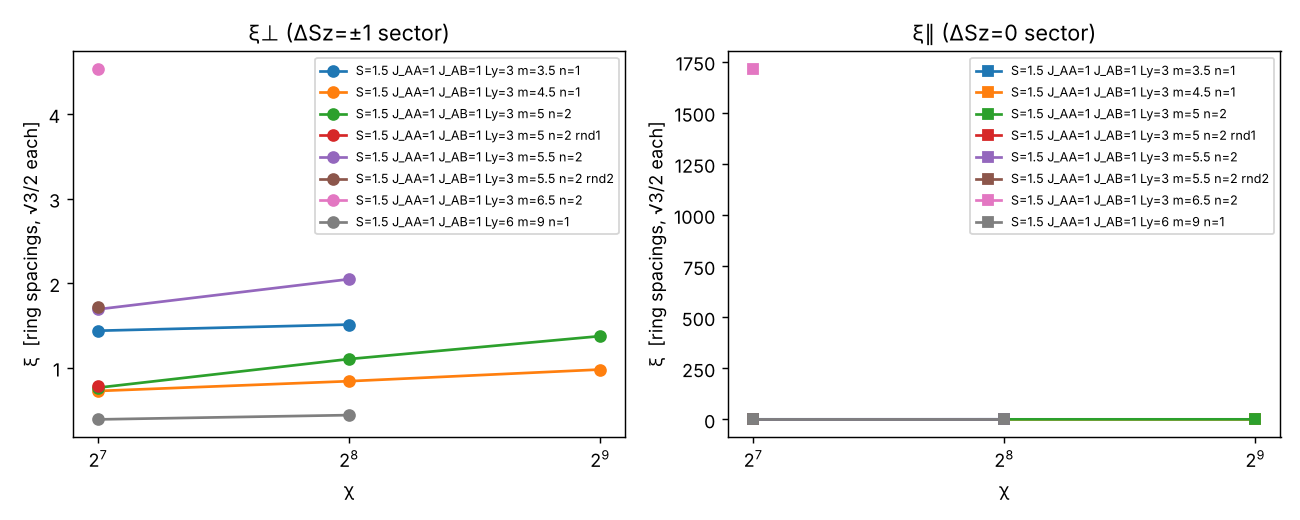
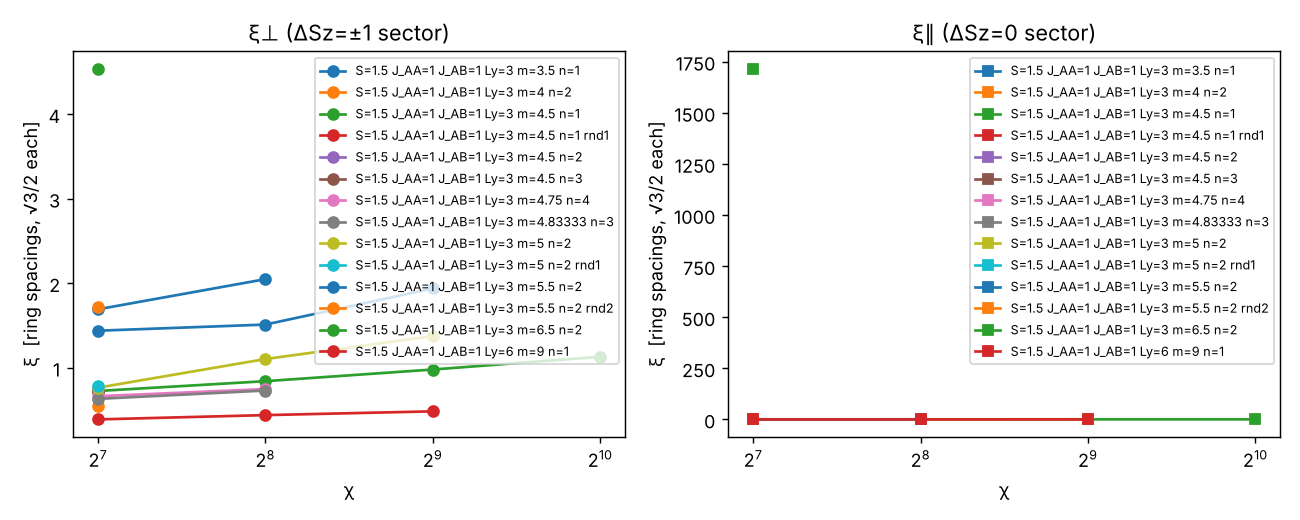
analysis: J scan figure from 2-ring-cell plateau gap
Claude-Session: https://claude.ai/code/session_01ER87ahehirUHtzvqfEMg5E

diff --git a/triakis/analyze.py b/triakis/analyze.py
@@ -121,35 +121,44 @@ def pick(rows, **kw):
 
 
 def fig_scan(rows):
-    """J_AA/J_AB scan on Ly=3: e(4.5)-e(3.5) per ring at chi=128 and 256."""
-    fig, axs = plt.subplots(1, 2, figsize=(10, 4))
+    """J_AA/J_AB scan on Ly=3 with 2-ring cells: e(m) per J and the plateau gap e(5)-e(4.5)."""
+    base = [r for r in rows if r['S'] == 1.5 and r['J2'] == 1 and r['Ly'] == 3 and r['centers']
+            and r['seed'] < 0]
+
+    def e(J, m, chi):
+        c = [r for r in base if r['J1'] == J and r['m'] == m and r['chi'] == chi and r['nring'] == 2]
+        if not c and m == 4.5:   # at J=1 the 1-, 2- and 3-ring cells agree; allow the 1-ring value
+            c = [r for r in base if r['J1'] == J and r['m'] == m and r['chi'] == chi]
+        return c[0] if c else None
+    J1s = sorted({r['J1'] for r in base})
+    fig, axs = plt.subplots(1, 3, figsize=(15, 4.2))
     out = []
-    J1s = sorted({r['J1'] for r in rows if r['S'] == 1.5 and r['J2'] == 1 and r['Ly'] == 3 and r['centers']})
-    for chi, mk in ((128, 'o--'), (256, 's-')):
+    for J in J1s:
+        ms = sorted({r['m'] for r in base if r['J1'] == J and r['nring'] == 2 and r['chi'] == 128} | {4.5})
+        pts = [(m, e(J, m, 128)) for m in ms]
+        pts = [(m, r) for m, r in pts if r is not None and m in (4.0, 4.5, 5.0, 5.5, 6.0, 6.5)]
+        if len(pts) >= 2:
+            e0 = min(r['e_ring'] for _, r in pts)
+            axs[0].plot([m for m, _ in pts], [r['e_ring'] - e0 for _, r in pts], 'o-', label=f'J_AA={J:g}')
+    for chi, mk in ((128, 'o-'), (256, 's--')):
         xs, ds, xi = [], [], []
         for J in J1s:
-            a = [r for r in rows if r['S'] == 1.5 and r['J2'] == 1 and r['J1'] == J and r['Ly'] == 3
-                 and r['centers'] and r['seed'] < 0 and r['chi'] == chi and r['m'] == 4.5 and r['nring'] == 1]
-            b = [r for r in rows if r['S'] == 1.5 and r['J2'] == 1 and r['J1'] == J and r['Ly'] == 3
-                 and r['centers'] and r['seed'] < 0 and r['chi'] == chi and r['m'] == 3.5 and r['nring'] == 1]
+            a, b = e(J, 4.5, chi), e(J, 5.0, chi)
             if a and b:
-                xs.append(J); ds.append(a[0]['e_ring'] - b[0]['e_ring']); xi.append(a[0]['xi_tm2'])
-                out.append(dict(J_AA=J, chi=chi, e45=a[0]['e_ring'], e35=b[0]['e_ring'],
-                                diff=a[0]['e_ring'] - b[0]['e_ring'], xi_perp_45=a[0]['xi_tm2'],
-                                xi_perp_35=b[0]['xi_tm2']))
-        axs[0].plot(xs, ds, mk, label=f'χ={chi}')
-        axs[1].plot(xs, xi, mk, label=f'χ={chi}')
-    axs[0].axhline(0, color='k', lw=0.8)
-    axs[0].axvline(1, color='gray', ls=':', lw=1)
-    axs[0].set_xlabel('J_AA / J_AB')
-    axs[0].set_ylabel('e_ring(m=4.5) − e_ring(m=3.5)')
-    axs[0].set_title('< 0: m=S/3 ferrimagnet favoured;  > 0: collapsed')
-    axs[1].set_xlabel('J_AA / J_AB')
-    axs[1].set_ylabel('ξ⊥ at m=4.5 [ring spacings]')
-    axs[1].set_yscale('log')
+                xs.append(J); ds.append(b['e_ring'] - a['e_ring']); xi.append(a['xi_tm2'])
+                out.append(dict(J_AA=J, chi=chi, e45=a['e_ring'], e5=b['e_ring'], gap=b['e_ring'] - a['e_ring'],
+                                xi_perp_45=a['xi_tm2'], cell45=a['nring']))
+        axs[1].plot(xs, ds, mk, label=f'χ={chi}')
+        axs[2].plot(xs, xi, mk, label=f'χ={chi}')
+    axs[0].set_xlabel('m (Sz per ring)'); axs[0].set_ylabel('e_ring − min  (χ=128, 2-ring cells)')
+    axs[0].set_title('e(m) for each J_AA/J_AB')
+    axs[1].axhline(0, color='k', lw=0.8)
+    axs[1].set_xlabel('J_AA / J_AB'); axs[1].set_ylabel('Δ₊ = e_ring(5) − e_ring(4.5)')
+    axs[1].set_title('plateau gap (> 0: m = S/3 ferrimagnet)')
+    axs[2].set_xlabel('J_AA / J_AB'); axs[2].set_ylabel('ξ⊥ at m=4.5 [ring spacings]'); axs[2].set_yscale('log')
     for ax in axs:
-        ax.legend(fontsize=8)
-    fig.suptitle('S=3/2, Ly=3 infinite cylinder')
+        ax.legend(fontsize=7)
+    fig.suptitle('S=3/2, Ly=3 infinite cylinder: J_AA/J_AB scan')
     fig.tight_layout()
     fig.savefig(os.path.join(ROOT, 'figs', 'jscan.png'), dpi=130)
     plt.close(fig)

diff --git a/results/table.md b/results/table.md
@@ -5,14 +5,30 @@
 | 0.5 | 1 | 1 | 3 | 1.5 | 1 | cl | 512 | -1.494715 | 1.5e-07 | -0.225, -0.225, -0.225 | 0.362, 0.362 | 0.700 | 0.440 | 0.322 | 1.319 |
 | 1 | 1 | 1 | 3 | 3.5 | 2 | cl | 128 | -4.661363 | 5.8e-04 | -0.582, -0.416, -0.594 | 0.849, 0.849 | 1.203 | 0.655 | 0.360 | 1.990 |
 | 1 | 1 | 1 | 3 | 3.5 | 2 | cl | 256 | -4.674228 | 2.1e-04 | -0.572, -0.424, -0.572 | 0.845, 0.845 | 1.518 | 0.884 | 0.411 | 2.071 |
+| 1.5 | 0.8 | 1 | 3 | 3.5 | 1 | cl | 128 | -10.301692 | 1.8e-03 | -0.886, -0.833, -0.839 | 1.009, 1.011 | 2.754 | 0.671 | 0.611 | 2.365 |
+| 1.5 | 0.8 | 1 | 3 | 3.5 | 1 | cl | 256 | -10.359139 | 9.8e-04 | -0.843, -0.823, -0.824 | 0.998, 0.999 | 3.754 | 0.735 | 0.863 | 2.574 |
+| 1.5 | 0.8 | 1 | 3 | 4.5 | 1 | cl | 128 | -10.382840 | 6.3e-04 | -1.072, -1.057, -1.056 | 1.280, 1.281 | 0.663 | 0.376 | 0.308 | 1.754 |
+| 1.5 | 0.8 | 1 | 3 | 4.5 | 1 | cl | 256 | -10.401818 | 2.2e-04 | -1.049, -1.043, -1.043 | 1.272, 1.273 | 0.736 | 0.399 | 0.344 | 1.835 |
+| 1.5 | 0.8 | 1 | 3 | 5 | 2 | cl | 128 | -10.161271 | 6.1e-04 | -0.876, -1.057, -1.095 | 1.338, 1.339 | 1.125 | 0.497 | 0.351 | 1.872 |
+| 1.5 | 0.8 | 1 | 3 | 5 | 2 | cl | 256 | -10.182096 | 2.6e-04 | -0.880, -1.056, -1.062 | 1.333, 1.333 | 1.455 | 0.778 | 0.406 | 2.044 |
 | 1.5 (corners only) | 1 | 0 | 3 | 0 | 2 | cl | 128 | -3.912918 | 4.3e-04 | -0.000, 0.000, -0.000 | —, — | 16.649 | 8060.222 | 4.066 | 2.706 |
 | 1.5 (corners only) | 1 | 0 | 3 | 0 | 2 | cl | 256 | -3.923378 | 1.6e-04 | -0.000, 0.000, -0.000 | —, — | 24.195 | 98806.312 | 5.822 | 2.916 |
 | 1.5 (corners only) | 1 | 0 | 3 | 0 | 2 | cl | 512 | -3.927648 | 6.1e-05 | 0.000, -0.000, -0.000 | —, — | 36.037 | 2344078.905 | 8.598 | 3.124 |
 | 1.5 | 1 | 1 | 3 | 3.5 | 1 | cl | 128 | -9.600558 | 3.3e-03 | -1.070, -0.515, -0.488 | 0.929, 0.929 | 1.438 | 0.655 | 0.417 | 2.580 |
 | 1.5 | 1 | 1 | 3 | 3.5 | 1 | cl | 256 | -9.695037 | 2.1e-03 | -0.819, -0.615, -0.613 | 0.924, 0.925 | 1.511 | 0.748 | 0.472 | 2.844 |
+| 1.5 | 1 | 1 | 3 | 3.5 | 1 | cl | 512 | -9.755562 | 1.2e-03 | -0.704, -0.640, -0.641 | 0.914, 0.914 | 1.938 | 0.847 | 0.517 | 3.072 |
+| 1.5 | 1 | 1 | 3 | 4 | 2 | cl | 128 | -9.646823 | 3.4e-03 | -0.804, -0.713, -0.795 | 1.050, 1.054 | 0.547 | 0.491 | 0.396 | 1.776 |
 | 1.5 | 1 | 1 | 3 | 4.5 | 1 | cl | 128 | -9.716246 | 2.1e-03 | -0.925, -0.857, -0.861 | 1.190, 1.191 | 0.725 | 0.409 | 0.338 | 2.224 |
 | 1.5 | 1 | 1 | 3 | 4.5 | 1 | cl | 256 | -9.771500 | 9.8e-04 | -0.874, -0.838, -0.842 | 1.175, 1.176 | 0.841 | 0.442 | 0.399 | 2.403 |
 | 1.5 | 1 | 1 | 3 | 4.5 | 1 | cl | 512 | -9.799931 | 3.9e-04 | -0.842, -0.826, -0.826 | 1.166, 1.166 | 0.979 | 0.547 | 0.465 | 2.528 |
+| 1.5 | 1 | 1 | 3 | 4.5 | 1 | cl | 1024 | -9.812060 | 1.4e-04 | -0.823, -0.818, -0.818 | 1.160, 1.160 | 1.130 | 0.645 | 0.534 | 2.612 |
+| 1.5 | 1 | 1 | 3 | 4.5 | 1 | rnd1 | 128 | -9.716223 | 2.1e-03 | -0.925, -0.857, -0.862 | 1.190, 1.191 | 0.726 | 0.411 | 0.339 | 2.225 |
+| 1.5 | 1 | 1 | 3 | 4.5 | 2 | cl | 128 | -9.716255 | 2.1e-03 | -0.892, -0.859, -0.894 | 1.190, 1.191 | 0.725 | 0.410 | 0.338 | 2.223 |
+| 1.5 | 1 | 1 | 3 | 4.5 | 3 | cl | 128 | -9.716290 | 2.1e-03 | -0.880, -0.885, -0.881 | 1.190, 1.192 | 0.725 | 0.410 | 0.338 | 2.224 |
+| 1.5 | 1 | 1 | 3 | 4.75 | 4 | cl | 128 | -9.689976 | 2.0e-03 | -0.857, -0.897, -0.903 | 1.234, 1.235 | 0.663 | 0.425 | 0.309 | 2.243 |
+| 1.5 | 1 | 1 | 3 | 4.75 | 4 | cl | 256 | -9.740492 | 9.1e-04 | -0.842, -0.876, -0.866 | 1.222, 1.223 | 0.747 | 0.525 | 0.353 | 2.468 |
+| 1.5 | 1 | 1 | 3 | 4.83333 | 3 | cl | 128 | -9.680057 | 1.7e-03 | -0.830, -0.890, -0.946 | 1.249, 1.251 | 0.632 | 0.434 | 0.307 | 2.256 |
+| 1.5 | 1 | 1 | 3 | 4.83333 | 3 | cl | 256 | -9.729763 | 8.9e-04 | -0.816, -0.874, -0.904 | 1.237, 1.238 | 0.731 | 0.549 | 0.385 | 2.478 |
 | 1.5 | 1 | 1 | 3 | 5 | 2 | cl | 128 | -9.661925 | 1.6e-03 | -0.868, -0.814, -0.970 | 1.275, 1.276 | 0.764 | 0.395 | 0.320 | 2.246 |
 | 1.5 | 1 | 1 | 3 | 5 | 2 | cl | 256 | -9.708524 | 8.6e-04 | -0.918, -0.750, -0.926 | 1.265, 1.266 | 1.103 | 0.579 | 0.417 | 2.459 |
 | 1.5 | 1 | 1 | 3 | 5 | 2 | cl | 512 | -9.731981 | 3.6e-04 | -0.897, -0.755, -0.898 | 1.258, 1.259 | 1.374 | 0.668 | 0.487 | 2.571 |
@@ -23,15 +39,56 @@
 | 1.5 | 1 | 1 | 3 | 6.5 | 2 | cl | 128 | -8.993248 | 8.4e-04 | -0.702, -0.701, -0.700 | 1.433, 1.434 | 4.536 | 1715.218 | 1.107 | 2.485 |
 | 1.5 | 1 | 1 | 6 | 9 | 1 | cl | 128 | -9.309524 | 2.4e-03 | -1.083, -0.967, -0.961 | 1.252, 1.252 | 0.389 | 0.238 | 0.224 | 2.560 |
 | 1.5 | 1 | 1 | 6 | 9 | 1 | cl | 256 | -9.436565 | 1.8e-03 | -1.041, -0.940, -0.937 | 1.236, 1.236 | 0.440 | 0.267 | 0.239 | 3.025 |
+| 1.5 | 1 | 1 | 6 | 9 | 1 | cl | 512 | -9.534675 | 1.3e-03 | -1.009, -0.911, -0.912 | 1.222, 1.222 | 0.484 | 0.293 | 0.249 | 3.450 |
 | 1.5 | 1 | 2 | 3 | 4.5 | 1 | cl | 128 | -23.614541 | 5.9e-05 | -1.243, -1.241, -1.241 | 1.371, 1.371 | 0.467 | 0.355 | 0.213 | 1.164 |
 | 1.5 | 1 | 2 | 3 | 4.5 | 1 | cl | 256 | -23.619237 | 1.1e-05 | -1.239, -1.239, -1.239 | 1.370, 1.370 | 0.527 | 0.316 | 0.246 | 1.175 |
+| 1.5 | 1.05 | 1 | 3 | 4.5 | 2 | cl | 128 | -9.592441 | 2.6e-03 | -0.855, -0.803, -0.843 | 1.167, 1.167 | 0.720 | 0.430 | 0.336 | 2.299 |
+| 1.5 | 1.05 | 1 | 3 | 5 | 2 | cl | 128 | -9.565973 | 2.1e-03 | -0.803, -0.799, -0.933 | 1.256, 1.255 | 0.646 | 0.424 | 0.310 | 2.294 |
+| 1.5 | 1.1 | 1 | 3 | 4 | 2 | cl | 128 | -9.469690 | 3.0e-03 | -0.655, -0.596, -0.621 | 0.975, 0.982 | 0.547 | 0.350 | 0.304 | 1.509 |
+| 1.5 | 1.1 | 1 | 3 | 4.5 | 2 | cl | 128 | -9.485674 | 3.1e-03 | -0.835, -0.730, -0.795 | 1.143, 1.143 | 0.710 | 0.457 | 0.330 | 2.339 |
+| 1.5 | 1.1 | 1 | 3 | 5 | 2 | cl | 128 | -9.484991 | 2.2e-03 | -0.708, -0.859, -0.825 | 1.235, 1.229 | 0.548 | 0.459 | 0.314 | 2.257 |
+| 1.5 | 1.1 | 1 | 3 | 5.5 | 2 | cl | 128 | -9.473485 | 1.7e-03 | -0.887, -0.614, -0.878 | 1.312, 1.314 | 1.777 | 0.553 | 0.513 | 2.137 |
+| 1.5 | 1.1 | 1 | 3 | 6 | 2 | cl | 128 | -9.336246 | 9.2e-04 | -1.020, -0.549, -0.651 | 1.369, 1.371 | 3.232 | 0.836 | 0.847 | 2.035 |
 | 1.5 | 1.2 | 1 | 3 | 3.5 | 1 | cl | 128 | -9.214823 | 3.2e-03 | 0.231, -0.981, -0.785 | 0.824, 0.855 | 2.362 | 0.680 | 0.541 | 2.619 |
 | 1.5 | 1.2 | 1 | 3 | 3.5 | 1 | cl | 256 | -9.331422 | 2.5e-03 | 0.152, -0.811, -0.857 | 0.837, 0.835 | 2.456 | 0.766 | 0.443 | 2.929 |
+| 1.5 | 1.2 | 1 | 3 | 4 | 2 | cl | 128 | -9.367384 | 1.6e-03 | -1.182, 0.106, -0.514 | 0.933, 0.930 | 2.524 | 0.544 | 0.703 | 2.137 |
 | 1.5 | 1.2 | 1 | 3 | 4.5 | 1 | cl | 128 | -9.324477 | 3.6e-03 | -0.842, -0.610, -0.621 | 1.098, 1.094 | 0.648 | 0.496 | 0.321 | 2.551 |
 | 1.5 | 1.2 | 1 | 3 | 4.5 | 1 | cl | 256 | -9.425754 | 2.1e-03 | -0.765, -0.622, -0.624 | 1.086, 1.085 | 0.792 | 0.522 | 0.378 | 2.824 |
+| 1.5 | 1.2 | 1 | 3 | 4.5 | 2 | cl | 128 | -9.377353 | 1.7e-03 | -1.117, -0.108, -0.590 | 1.056, 1.050 | 2.023 | 0.553 | 0.635 | 2.114 |
+| 1.5 | 1.2 | 1 | 3 | 5 | 2 | cl | 128 | -9.390097 | 1.7e-03 | -0.429, -0.949, -0.664 | 1.178, 1.169 | 1.835 | 0.576 | 0.585 | 2.299 |
+| 1.5 | 1.2 | 1 | 3 | 5.5 | 2 | cl | 128 | -9.406846 | 1.9e-03 | -0.843, -0.614, -0.756 | 1.284, 1.286 | 2.101 | 0.553 | 0.598 | 2.240 |
+| 1.5 | 1.2 | 1 | 3 | 6 | 2 | cl | 128 | -9.343677 | 1.1e-03 | -0.889, -0.475, -0.745 | 1.350, 1.353 | 3.949 | 0.838 | 1.001 | 2.113 |
+| 1.5 | 1.2 | 1 | 3 | 6.5 | 2 | cl | 128 | -9.153397 | 1.0e-03 | -0.685, -0.682, -0.684 | 1.424, 1.426 | 4.535 | 1013.947 | 1.112 | 2.544 |
+| 1.5 | 1.3 | 1 | 3 | 3.5 | 1 | cl | 128 | -9.178310 | 3.6e-03 | 0.160, -1.033, -0.403 | 0.762, 0.830 | 1.593 | 1.078 | 0.889 | 2.678 |
+| 1.5 | 1.3 | 1 | 3 | 3.5 | 1 | cl | 256 | -9.294449 | 2.5e-03 | 0.061, -1.007, -0.318 | 0.773, 0.815 | 1.745 | 1.145 | 0.998 | 2.960 |
+| 1.5 | 1.3 | 1 | 3 | 4 | 2 | cl | 128 | -9.383871 | 1.2e-03 | -1.167, 0.234, -0.444 | 0.898, 0.894 | 3.704 | 0.600 | 0.966 | 2.163 |
+| 1.5 | 1.3 | 1 | 3 | 4.5 | 1 | cl | 128 | -9.336240 | 1.3e-03 | -0.547, -0.555, -0.491 | 1.026, 1.005 | 4.726 | 0.702 | 1.195 | 2.359 |
+| 1.5 | 1.3 | 1 | 3 | 4.5 | 1 | cl | 256 | -9.401672 | 9.1e-04 | -0.546, -0.552, -0.488 | 1.021, 1.008 | 4.501 | 0.648 | 1.139 | 2.602 |
+| 1.5 | 1.3 | 1 | 3 | 4.5 | 2 | cl | 128 | -9.386961 | 1.3e-03 | -1.083, 0.033, -0.506 | 1.013, 1.006 | 3.836 | 0.641 | 1.025 | 2.184 |
+| 1.5 | 1.3 | 1 | 3 | 5 | 2 | cl | 128 | -9.393018 | 1.2e-03 | -0.251, -0.915, -0.573 | 1.128, 1.119 | 4.163 | 0.724 | 1.111 | 2.309 |
+| 1.5 | 1.3 | 1 | 3 | 5.5 | 2 | cl | 128 | -9.395707 | 1.1e-03 | -0.631, -0.629, -0.619 | 1.235, 1.225 | 4.256 | 0.813 | 1.108 | 2.233 |
 | 1.5 | 1.4 | 1 | 3 | 3.5 | 1 | cl | 128 | -9.360531 | 1.3e-03 | -0.391, -0.371, -0.314 | 0.774, 0.752 | 7.358 | 0.695 | 1.838 | 2.431 |
 | 1.5 | 1.4 | 1 | 3 | 3.5 | 1 | cl | 256 | -9.431400 | 8.2e-04 | -0.397, -0.358, -0.313 | 0.768, 0.754 | 7.674 | 0.627 | 1.903 | 2.713 |
+| 1.5 | 1.4 | 1 | 3 | 4 | 2 | cl | 128 | -9.462025 | 1.0e-03 | -1.124, 0.300, -0.394 | 0.872, 0.867 | 5.043 | 0.672 | 1.286 | 2.183 |
 | 1.5 | 1.4 | 1 | 3 | 4.5 | 1 | cl | 128 | -9.232001 | 2.7e-03 | -0.240, -0.843, -0.374 | 0.986, 1.000 | 3.501 | 3.097 | 1.459 | 2.776 |
 | 1.5 | 1.4 | 1 | 3 | 4.5 | 1 | cl | 256 | -9.350358 | 2.0e-03 | -0.262, -0.782, -0.411 | 0.987, 0.998 | 3.005 | 2.001 | 1.423 | 3.045 |
+| 1.5 | 1.4 | 1 | 3 | 4.5 | 2 | cl | 128 | -9.462478 | 1.0e-03 | -1.020, 0.092, -0.447 | 0.983, 0.975 | 5.622 | 0.733 | 1.437 | 2.216 |
+| 1.5 | 1.4 | 1 | 3 | 5 | 2 | cl | 128 | -9.446348 | 1.6e-03 | -0.539, -0.489, -0.522 | 1.091, 1.092 | 6.776 | 0.720 | 1.705 | 2.330 |
+| 1.5 | 1.4 | 1 | 3 | 5.5 | 2 | cl | 128 | -9.460182 | 8.8e-04 | -0.550, -0.567, -0.550 | 1.200, 1.189 | 5.659 | 0.848 | 1.444 | 2.252 |
+| 1.5 | 1.6 | 1 | 3 | 3.5 | 1 | cl | 128 | -9.489149 | 1.5e-03 | -0.059, -0.622, -0.209 | 0.730, 0.733 | 13.428 | 727433.846 | 3.426 | 2.947 |
+| 1.5 | 1.6 | 1 | 3 | 3.5 | 1 | cl | 256 | -9.604480 | 1.1e-03 | -0.247, -0.361, -0.270 | 0.728, 0.731 | 16.692 | 24531.985 | 4.264 | 3.221 |
+| 1.5 | 1.6 | 1 | 3 | 4 | 2 | cl | 128 | -9.717005 | 1.5e-03 | -0.376, -0.317, -0.305 | 0.836, 0.831 | 11.256 | 0.641 | 2.835 | 2.377 |
 | 1.5 | 1.6 | 1 | 3 | 4.5 | 1 | cl | 128 | -9.484536 | 1.5e-03 | -0.216, -0.609, -0.332 | 0.941, 0.945 | 13.018 | 3419.276 | 3.320 | 2.915 |
 | 1.5 | 1.6 | 1 | 3 | 4.5 | 1 | cl | 256 | -9.597901 | 1.1e-03 | -0.381, -0.383, -0.379 | 0.938, 0.943 | 15.708 | 28058.749 | 4.003 | 3.189 |
+| 1.5 | 1.6 | 1 | 3 | 4.5 | 2 | cl | 128 | -9.726630 | 1.1e-03 | -0.370, -0.397, -0.356 | 0.936, 0.938 | 10.478 | 0.766 | 2.632 | 2.358 |
+| 1.5 | 1.6 | 1 | 3 | 5 | 2 | cl | 128 | -9.726641 | 1.1e-03 | -0.372, -0.518, -0.360 | 1.041, 1.043 | 9.891 | 0.800 | 2.484 | 2.325 |
+| 1.5 | 1.6 | 1 | 3 | 5.5 | 2 | cl | 128 | -9.718827 | 1.1e-03 | -0.530, -0.330, -0.520 | 1.146, 1.148 | 9.147 | 0.847 | 2.299 | 2.296 |
+| 1.5 | 1.8 | 1 | 3 | 3.5 | 1 | cl | 128 | -9.858837 | 1.3e-03 | -0.016, -0.535, -0.208 | 0.707, 0.712 | 15.695 | 9056.947 | 4.007 | 2.958 |
+| 1.5 | 1.8 | 1 | 3 | 3.5 | 1 | cl | 256 | -9.977819 | 8.9e-04 | -0.200, -0.284, -0.263 | 0.706, 0.710 | 21.086 | 281420.906 | 5.368 | 3.242 |
+| 1.5 | 1.8 | 1 | 3 | 4 | 2 | cl | 128 | -10.135450 | 1.3e-03 | -0.205, -0.319, -0.314 | 0.808, 0.804 | 13.945 | 0.697 | 3.508 | 2.378 |
+| 1.5 | 1.8 | 1 | 3 | 4.5 | 1 | cl | 128 | -10.137720 | 5.6e-04 | -0.313, -0.325, -0.304 | 0.914, 0.900 | 13.389 | 0.908 | 3.360 | 2.383 |
+| 1.5 | 1.8 | 1 | 3 | 4.5 | 1 | cl | 256 | -10.197333 | 3.5e-04 | -0.310, -0.322, -0.304 | 0.910, 0.902 | 14.830 | 0.910 | 3.715 | 2.578 |
+| 1.5 | 1.8 | 1 | 3 | 4.5 | 2 | cl | 128 | -10.129172 | 8.5e-04 | -0.371, -0.205, -0.370 | 0.907, 0.908 | 13.512 | 0.858 | 3.396 | 2.383 |
+| 1.5 | 1.8 | 1 | 3 | 5 | 2 | cl | 128 | -10.115682 | 9.4e-04 | -0.434, -0.200, -0.423 | 1.009, 1.010 | 12.849 | 0.885 | 3.233 | 2.358 |
+| 1.5 | 1.8 | 1 | 3 | 5.5 | 2 | cl | 128 | -10.075375 | 9.6e-04 | -0.372, -0.372, -0.390 | 1.101, 1.110 | 7.476 | 0.845 | 1.836 | 2.346 |
+| 1.5 | 1.8 | 1 | 3 | 6.5 | 2 | cl | 128 | -9.992743 | 8.2e-04 | -0.658, -0.142, -0.549 | 1.307, 1.309 | 8.490 | 1.000 | 2.132 | 2.320 |
